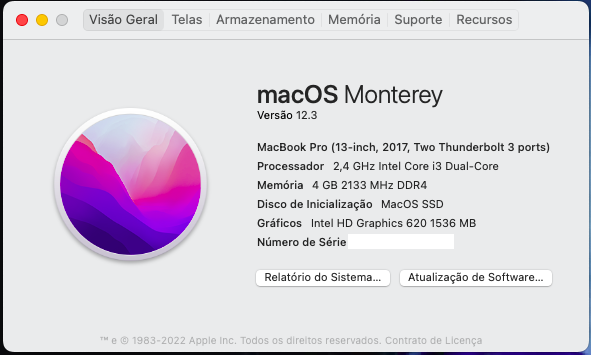
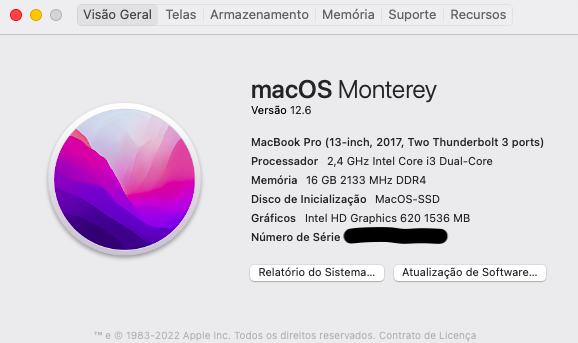
Update Readme.md

diff --git a/README.md b/README.md
@@ -6,18 +6,32 @@
 </p>
 
 <p align="center">
-<img src="img/foto.jpeg" width="500px" />
+<img src="img/foto.jpeg" width="400px" />
+</p>
+
+
+# Donate PayPal - I scan the QRcode below and give any value.
+
+<h3 align="center">Help maintain this project. Thank you 🍺 </h3>
+
+<form action="https://www.paypal.com/donate" method="post" target="_top" align="center">
+<input type="hidden" name="hosted_button_id" value="Z4V3GZF3ACE84" />
+<input type="image" src="https://www.paypalobjects.com/en_US/i/btn/btn_donateCC_LG.gif" border="0" name="submit" title="PayPal - The safer, easier way to pay online!" alt="Donate with PayPal button" />
+<img alt="" border="0" src="https://www.paypal.com/en_BR/i/scr/pixel.gif" width="1" height="1" />
+</form>
+
+<br>
+<p align="center">
+<img src="img/QR_Code_PayPal.png" width="200px" style="border: 10px solid rgb(50,134,198)"/>
 </p>
 
 <hr>
 
-# Donate PayPal -  ricardos7@hotmail.com
-- <h3>Help maintain this project. Thank you 🍺 </h3>
 # Doações por PIX - leia o QRcode abaixo e doe qualquer valor.
-- <h3>Ajude a manter esse projeto. Obrigado 🍺 </h3>
+<h3 align="center">Ajude a manter esse projeto. Obrigado 🍺 </h3>
 
 <p align="center">
-<img src="img/c6_bank_pix_qrcode.png" width="500px"/>
+<img src="img/c6_bank_pix_qrcode.png" width="200px" style="border: 10px solid rgb(254,121,0)"/>
 </p>
 
 # Characteristics
@@ -31,29 +45,37 @@
 - Weight: 1.74 kilos
 
 # It works
-* Keyboard with lighting and shortcuts for brightness and volume.
-* touchpad with gestures.
-* wifi (has been replaced by an Intel 7265)
-* usb 3.0 e USB type-C.
-* battery indicator.
-* intel UHD 620 graphics card with 1.5 gigas.
-* webcam.
-* card Reader.
-* audio (see layout id files).
-* HDMI connection (video and audio).
-* brightness control keys f11 e f12. 
-* volume control.
-* touch screen.
-* connect audio jack with microphone. 
-* power control.
-* sleep e auto sleep.
+- Keyboard with lighting and shortcuts for brightness and volume.
+- touchpad with gestures.
+- wifi (has been replaced by an Intel 7265)
+- usb 3.0 e USB type-C.
+- battery indicator.
+- intel UHD 620 graphics card with 1.5 gigas.
+- webcam.
+- card Reader.
+- audio (see layout id files).
+- HDMI connection (video and audio).
+- brightness control keys f11 e f12. 
+- volume control.
+- touch screen.
+- connect audio jack with microphone. 
+- power control.
+- sleep e auto sleep.
 
 # Doesn't work
 
 - Fingerprint reader.
-- Native wifi (has been replaced by an Intel 7265) -  Recommend DW1560 - BCM94360NG (pluin and play).
+- Native wifi (has been replaced by an Intel 7265) -  Recommend DW1560 - BCM94360NG (plug and play).
 
-# Updade MacOS Monterey 12.3.1
+# Screenshot 
+<br>
+<p align="center">
+<img src="img/Tela.png"/>
+</p>
+<br>
+<hr>
+
+# Updade MacOS Monterey 12.6
 
 <p align="center">
 <img src="img/Monterey.png">
@@ -90,19 +112,12 @@
 
 - Updated KEXTS Folder OC 0.7.8 Big Sur
 
-# Screenshot 
-<br>
-<p align="center">
-<img src="img/Tela.png"/>
-</p>
-<br>
 
 # Bugs
-
 - When turning on MacOS, sometimes the keyboard and mouse do not work on the OC screen until you enter windows and exit or reset nvram.
- <h4> * One way around this is by selecting the Mac partition and typing Ctrl + Enter to always start on it by default, and when using Windows, press the f12 or Fn + F12 key and choose the windows boot partition if it is on a disk different from mac. <br>
- * If the two systems tverem on the same disk a solution can be shut down using the power button or use an external mouse or keyboard, I can not describe this situation well since my systems are on different disks.  <br>
-</h4><br>
+- One way around this is by selecting the Mac partition and typing Ctrl + Enter to always start on it by default, and when using Windows, press the f12 or Fn + F12 key and choose the windows boot partition if it is on a disk different from mac.
+- If the two systems tverem on the same disk a solution can be shut down using the power button or use an external mouse or keyboard, I can not describe this situation well since my systems are on different disks.
+
 
 # Heads up
 * see id layout tests to enable headphone output microphone (jack connector)
@@ -115,7 +130,6 @@
 - Delete the Resources and Tools folders inside the EFI - OC folder and replace them with the ones inside the themes file.
 
 # Disclaimer
-
 The hackintosh process is a relatively simple process, but 
 there is always the risk of you damaging your device, here 
 I am making available the files and procedure I used under 
@@ -126,7 +140,6 @@ equipment, the only one responsible will be you, who is who
 is performing the procedure, in this way, do at your own risk.
 
 # Credits
-
  - <a href="https://github.com/Ricardo-SS"> Ricardo-SS </a>
  - <a href="https://github.com/acidanthera"> Acidanthera </a>
  - <a href="https://github.com/dortania"> Dortania </a>
@@ -135,4 +148,3 @@ is performing the procedure, in this way, do at your own risk.
  - <a href="https://github.com/OpenIntelWireless"> OpenIntelWireless </a>
  - <a href="https://github.com/zhen-zen"> zhen-zen </a>
  - <a href="#"> And others </a>
- 
